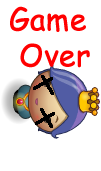
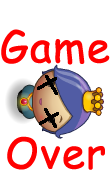
Added html replacement for instructions and score
Need to remove debugging statements and work on comments.

diff --git a/js/app.js b/js/app.js
@@ -3,7 +3,10 @@ var enemyNum = 5;
 var collision = 0;
 var score = 0;
 var myLives = 4;
-var enemySpeed = 10;
+var enemySpeed = 50;
+var scoreBoard = document.getElementById('score');
+scoreBoard.innerHTML = "Lives\: " + myLives + "\; Score\: " + score;
+var instructions = document.getElementById('instructions')
 var Enemy = function() {
     // Variables applied to each of our instances go here,
     // we've provided one for you to get started
@@ -22,13 +25,13 @@ Enemy.prototype.update = function(dt) {
     // You should multiply any movement by the dt parameter
     // which will ensure the game runs at the same speed for
     // all computers.
-    if (myLives < 1) {
+    if (myLives === 0) {
         enemySpeed = 500;
         console.log("fast enemy!")
     }
     this.x = this.x + (dt * enemySpeed);
     if (this.x > 505) {
-        this.x = 0;
+        this.x = 0 - Math.random() * 10;
         this.y = (Math.floor(Math.random() * 3) * 80) + 65;
     }    
 }
@@ -48,49 +51,48 @@ var Player = function() {
 
 }
 
-Player.prototype.update = function() {
-    if (myLives > 0) {
+Player.prototype.update = function() {//1 function
+    if (myLives > 0) {//2 if living
+        console.log(myLives, score);
 
 
     checkCollisions(this.x, this.y);
-    if (collision) {
+    if (collision) {//3if collision
         myLives = myLives - 1;
-        console.log("Lives: ", myLives);
+        scoreBoard.innerHTML = "Lives\: " + myLives + "\; Score\: " + score;    
         this.reset();
         collision = 0;
-    }
-    else if (this.y < 10) {
+    }//3end  collision
+    else if (this.y < 10) {//if no collision and in water 4
         score = score + 1;
-        console.log("score:", score);
+        scoreBoard.innerHTML = "Lives\: " + myLives + "\; Score\: " + score;
         this.reset();
-    }
-    else if (this.currKey === 'right') {
+    }//4 end if water
+    else if (this.currKey === 'right') {//5 if right
         this.x = this.x + 100;
-        if (this.x > 401.5) {
+        if (this.x > 401.5) {//6 if too far right
             this.x = 401.5;
-        }
-    }
-    else if (this.currKey === 'left') {
+        }//6end if too far right
+    }//5 end right
+    else if (this.currKey === 'left') {//7if left
         this.x = this.x - 100;
-        if (this.x < 0) {
+        if (this.x < 0) {//8 if too far left
             this.x = 0;
-        }
-    }
-    else if (this.currKey ==='up') {
+        }//end 8 too far left
+    }//end 7 left
+    else if (this.currKey ==='up') {//9if up
         this.y = this.y - 82;
-        //if (this.y < 80) {
-         //   this.reset();
-        //}
-    }
-    else if (this.currKey === 'down') {
+
+    }//end 9 if up
+    else if (this.currKey === 'down') {//10 if down
         this.y = this.y + 82;
-        if (this.y > 410) {
+        if (this.y > 410) {//11if too far down
         this.y = 410;  
-        }
-    }
-}//end if
+        }//end 11 too far down
+    }// end 11 down
+}//end 2 if
     this.currKey = null;
-}
+}//end function
 
 Player.prototype.render = function() {
     ctx.drawImage(Resources.get(this.sprite), this.x, this.y);
@@ -104,13 +106,9 @@ Player.prototype.handleInput = function(myKey) {
 Player.prototype.reset = function() {
         this.x = 201.5;
         this.y = 410;
-    if (myLives > 0) {
-        console.log("resetting")
-
-    }
-    else {
+    if (myLives === 0) {
         player.sprite = 'images/char-princess-girl-dead.png'
-        console.log("Game Over");
+        instructions.innerHTML = "GAME OVER. To Play again, reload the page."
     }
 
 }

diff --git a/js/engine.js b/js/engine.js
@@ -22,12 +22,18 @@ var Engine = (function(global) {
     var doc = global.document,
         win = global.window,
         canvas = doc.createElement('canvas'),
+        //scoreBoard = doc.createElement('canvas'),
         ctx = canvas.getContext('2d'),
+        //ctxScore = scoreBoard.getContext('2d'),
         lastTime;
 
     canvas.width = 505;
     canvas.height = 606;
     doc.body.appendChild(canvas);
+
+    //scoreBoard.width = 125;
+    //scoreBoard.height = 606;
+    //doc.body.appendChild(scoreBoard);
 
     /* This function serves as the kickoff point for the game loop itself
      * and handles properly calling the update and render methods.

diff --git a/index.html b/index.html
@@ -6,8 +6,9 @@
 </head>
 <body>
 <h1>Frogger Arcade Game</h1>
-<h2 id="score">Score: </h2>
-<h2 id="lives">Lives: </h2>
+<p id=instructions>Move the player with your arrow keys.<br>To earn points jump into the water.<br>But beware the giant bugs as you cross the board!</p>
+	<h2 id=score></h2>
+
     <script src="js/resources.js"></script>
     <script src="js/app.js"></script>
     <script src="js/engine.js"></script>

diff --git a/css/style.css b/css/style.css
@@ -1,4 +1,10 @@
 body {
     text-align: center;
     font-family: "Comic Sans MS", cursive;
+    color: red;
+}
+#instructions {
+	margin: auto;
+	width: 500px;
+	font-size: 125%;
 }
